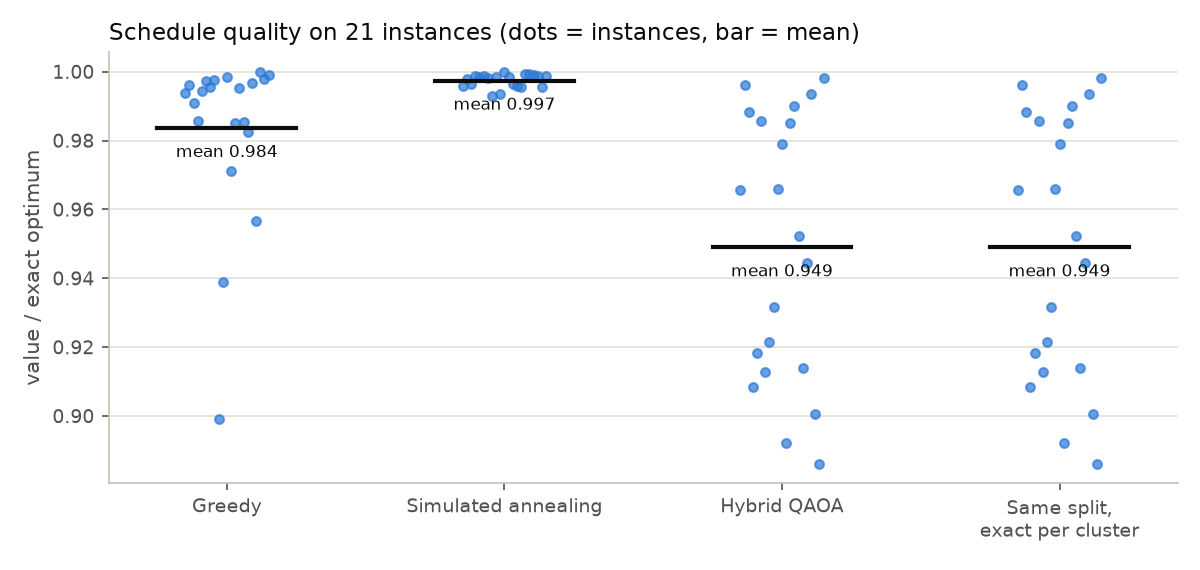
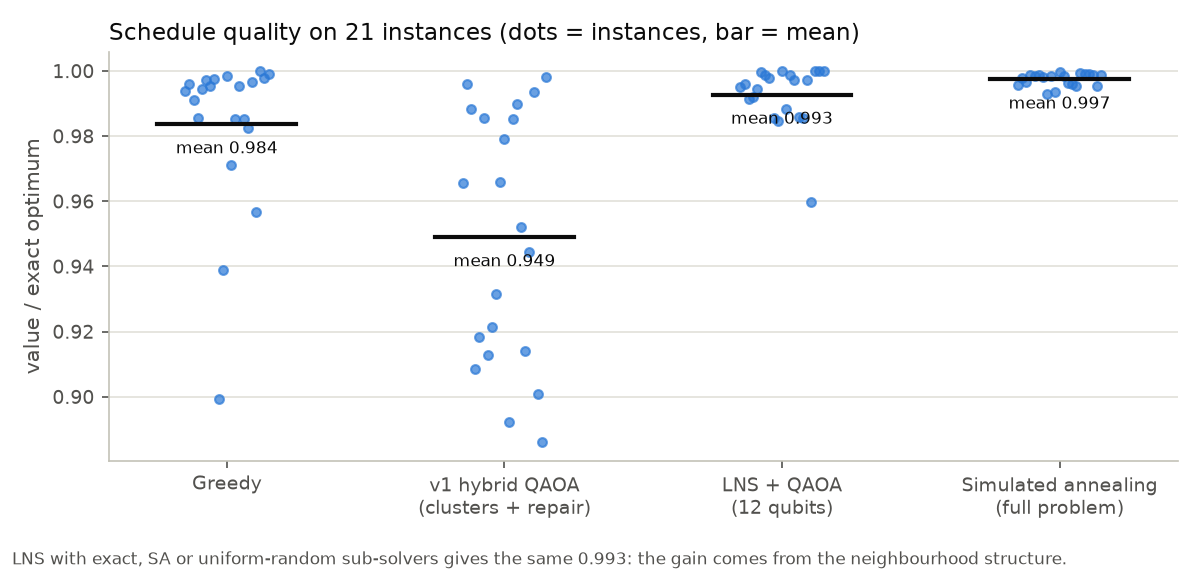
Final polish: table fits 90 columns, wrapped prose, LNS in ratio chart, README runtimes and method
- shorter honest row labels (e.g. '+ QAOA LNS sweep, 1 job (IonQ 1 nbhd/12q; local 6)'),
  test that the results table stays within 90 columns
- ratio chart shows greedy, v1 hybrid, LNS + QAOA and SA
- README: verified run times, live LNS pipeline in the method section
- packager writes dist/floodsight-q.zip again (v1 zip stays dist/floodsight-q-v1.zip)

Changed region(s): [[0.0, 0.1193, 0.9867, 0.7456], [0.0, 0.7754, 0.9867, 1.0]]

diff --git a/fsq/api.py b/fsq/api.py
@@ -15,6 +15,7 @@ Default run (fast, no optimisation in the browser), conditioned large-neighbourh
 from __future__ import annotations
 
 import json
+import textwrap
 import time
 
 import numpy as np
@@ -50,25 +51,33 @@ def _backend_name(backend) -> str:
     return "unknown" if backend is not None else "none (local)"
 
 
+def _say(text: str, indent: str = "  ", width: int = 88):
+    """Print prose wrapped to the console width (each source line kept as a paragraph)."""
+    for para in text.split("\n"):
+        lead = para[:len(para) - len(para.lstrip())]
+        print(textwrap.fill(para.strip(), width, initial_indent=lead or indent,
+                            subsequent_indent=(lead or indent) + "  "))
+
+
 def _line(char="-", n=72):
     print(char * n)
 
 
-def hybrid_label(bname: str, info: dict, n_units: int, unit: str = "neighbourhood") -> str:
+def hybrid_label(bname: str, info: dict, n_units: int, unit: str = "nbhd") -> str:
     """Label of the QAOA stage row; states where sampling actually happened. The QAOA row
     only ever carries the value after this one sweep, never the classical refinement."""
-    pl = lambda k: f"{k} {unit}" + ("" if k == 1 else "s")  # noqa: E731
-    head = "+ one QAOA-sampled LNS sweep"
+    head = "+ QAOA LNS sweep, 1 job"
+    bname = bname if len(bname) <= 18 else bname[:17] + "~"
     if info["mode"] == "none":
-        return f"{head} (sampled locally, no backend)"
+        return "+ QAOA LNS sweep (local, no backend)"
     if info["error"]:
         who = "IonQ" if info["mode"] == "packed" else bname
-        return f"{head} (sampled locally - {who} job failed)"
+        return f"+ QAOA LNS sweep (local; {who} job failed)"
     r, l = info["remote"], info["local"]
     if info["mode"] == "packed":
-        lab = f"IonQ: {pl(len(r))} / {info['remote_qubits']} qubits"
-        return f"{head} (one job; {lab}; local: {pl(len(l))})" if l else f"{head} (one job; {lab})"
-    return f"{head} (one job; {bname}: all {pl(n_units)})"
+        lab = f"IonQ {len(r)} {unit}/{info['remote_qubits']}q"
+        return f"{head} ({lab}; local {len(l)})" if l else f"{head} ({lab})"
+    return f"{head} ({bname}, {n_units} {unit}s)"
 
 
 def gap_insight(e1_path: str = E1_JSON, lns_path: str = E_LNS_JSON) -> str:
@@ -225,12 +234,12 @@ def run_default(backend=None, shots: int = 1024, seed: int = 7) -> str:
     print("[4/4] Results (value = priority x people x urgency x image quality; 1.000 = exact optimum)")
     hlabel = hybrid_label(bname, info, len(circuits))
     rows = [("exact", "Exact optimum (MILP, precomputed)", x_exact, None),
-            ("sa", f"Simulated annealing, full problem ({shots} restarts)", xs, t_s),
-            (None, "Hybrid LNS, stage by stage:", None, None),
-            ("greedy", "  Greedy incumbent (value density)", xg, t_g),
+            ("sa", f"Simulated annealing ({shots} restarts)", xs, t_s),
+            (None, "Hybrid LNS, stage by stage (nbhd = neighbourhood):", None, None),
+            ("greedy", "  Greedy incumbent", xg, t_g),
             ("hybrid_quantum_sweep", "  " + hlabel, x_q, t_q),
-            ("hybrid", f"  + {k_cl} classical LNS sweeps (exact sub-solver)", x_c, t_c)]
-    width = max(46, max(len(r[1]) for r in rows) + 2)
+            ("hybrid", f"  + {k_cl} classical LNS sweeps (exact)", x_c, t_c)]
+    width = max(40, max(len(r[1]) for r in rows if r[0]) + 1)
     print(f"  {'method':<{width}}{'ratio':>7}{'images':>8}{'feasible':>10}{'time s':>8}")
     out_methods = {}
     for key, name, xx, rt in rows:
@@ -243,20 +252,20 @@ def run_default(backend=None, shots: int = 1024, seed: int = 7) -> str:
         out_methods[key] = {"label": name.strip(), "ratio": approx_ratio(val, opt), "x": [int(v) for v in xx],
                             "runtime_s": rt}
     try:
-        print("  " + seed_insight())
+        _say(seed_insight())
     except Exception as e:
         print(f"  (seed summary unavailable: {type(e).__name__})")
     _line()
     try:
-        print("What the benchmarks say: " + gap_insight())
+        _say("What the benchmarks say: " + gap_insight(), indent="")
     except Exception as e:
         print(f"(benchmark insight unavailable: {type(e).__name__})")
     if info["panel"]:
-        print(f"Probabilities panel: shows {info['panel']}. All neighbourhoods are summarised above.")
+        _say(f"Probabilities panel: shows {info['panel']}. All neighbourhoods are summarised above.", indent="")
     else:
         print("Probabilities panel: no circuit ran on a backend in this run (all sampled locally).")
     _line()
-    print(VERDICT)
+    _say(VERDICT, indent="")
     print(f"Total runtime: {time.perf_counter() - t_all:.1f} s")
     _line("=")
     return json.dumps({"backend": bname, "shots": shots, "sampling": info, "hybrid_label": hlabel,

diff --git a/tests/test_api_smoke.py b/tests/test_api_smoke.py
@@ -43,7 +43,7 @@ def test_default_run_end_to_end_local_simulator():
     r = json.loads(run_default(be, shots=256))
     assert be.jobs == 1
     assert r["sampling"]["mode"] == "list" and not r["sampling"]["local"]
-    assert "counting_basic_simulator: all" in r["hybrid_label"] and r["precomputed_angles"]
+    assert "counting_basic_si" in r["hybrid_label"] and r["precomputed_angles"]
     assert r["methods"]["hybrid"]["ratio"] >= r["methods"]["hybrid_quantum_sweep"]["ratio"] >= r["methods"]["greedy"]["ratio"]
     # largest cluster submitted last (the Probabilities panel shows the last circuit)
     sizes = [c.num_qubits for c in be.sent[0]]
@@ -64,8 +64,8 @@ def test_ionq_default_budget_sends_largest_neighbourhood_only():
     assert s["mode"] == "packed" and s["error"] is None and s["remote_qubits"] <= 12
     assert be.sent[0].num_qubits == s["remote_qubits"] and be.sent[0].num_clbits == s["remote_qubits"]
     k, rest = len(s["remote"]), len(s["local"])
-    assert r["hybrid_label"].startswith(f"+ one QAOA-sampled LNS sweep (one job; IonQ: {k} neighbourhood")
-    assert f"local: {rest} neighbourhood" in r["hybrid_label"]
+    assert r["hybrid_label"].startswith(f"+ QAOA LNS sweep, 1 job (IonQ {k} nbhd/")
+    assert f"local {rest})" in r["hybrid_label"]
 
 
 @needs_default
@@ -124,7 +124,7 @@ def test_ionq_failure_is_labelled_local():
     be = Broken()
     r = json.loads(run_default(be, shots=64))
     assert be.jobs == 1
-    assert r["hybrid_label"] == "+ one QAOA-sampled LNS sweep (sampled locally - IonQ job failed)"
+    assert r["hybrid_label"] == "+ QAOA LNS sweep (local; IonQ job failed)"
     assert "ionq" not in r["hybrid_label"].lower().replace("ionq job failed", "")
 
 
@@ -190,3 +190,11 @@ def test_qaoa_row_never_carries_classical_value():
     assert "QAOA" in m["hybrid_quantum_sweep"]["label"]
     assert "QAOA" not in m["hybrid"]["label"] and "classical" in m["hybrid"]["label"]
     assert m["hybrid"]["ratio"] >= m["hybrid_quantum_sweep"]["ratio"] >= m["greedy"]["ratio"]
+
+
+def test_results_table_fits_90_columns(capsys):
+    from fsq.api import run_default
+    run_default(None)
+    out = capsys.readouterr().out
+    table = out[out.index("[4/4]"):].split("\n")[1:9]
+    assert max(len(line) for line in table if "-" * 20 not in line) <= 90

diff --git a/fsq/plots.py b/fsq/plots.py
@@ -126,24 +126,28 @@ def diversity_chart():
     return fig
 
 
-def ratio_chart():
+def ratio_chart(lns_path: str = "results/e_lns.json"):
     """Approximation ratio per method over the 21 benchmark instances."""
     import matplotlib.pyplot as plt
 
     e = [i for i in json.load(open(E1_JSON))["instances"] if i["instance"] != "default"]
-    methods = [("greedy", "Greedy"), ("sa", "Simulated annealing"), ("hybrid_warm_p1", "Hybrid QAOA"),
-               ("decomp_exact", "Same split,\nexact per cluster")]
+    lns = json.load(open(lns_path))["part_a"]["qaoa_q12"]["per_instance_final"]
+    cols = [("Greedy", [i["methods"]["greedy"]["ratio"] for i in e]),
+            ("v1 hybrid QAOA\n(clusters + repair)", [i["methods"]["hybrid_warm_p1"]["ratio"] for i in e]),
+            ("LNS + QAOA\n(12 qubits)", [lns[i["instance"]] for i in e]),
+            ("Simulated annealing\n(full problem)", [i["methods"]["sa"]["ratio"] for i in e])]
     fig, ax = plt.subplots(figsize=(8, 3.8))
-    for k, (m, label) in enumerate(methods):
-        v = [i["methods"][m]["ratio"] for i in e]
+    for k, (label, v) in enumerate(cols):
         ax.scatter(np.full(len(v), k) + np.linspace(-0.15, 0.15, len(v)), v, s=18, color=BLUE, alpha=0.7, zorder=3)
         ax.plot([k - 0.25, k + 0.25], [np.mean(v)] * 2, color=INK, linewidth=2, zorder=4)
         ax.annotate(f"mean {np.mean(v):.3f}", (k, np.mean(v)), xytext=(0, -14), textcoords="offset points",
                     ha="center", fontsize=8, color=INK)
-    ax.set_xticks(range(len(methods)), [l for _, l in methods])
+    ax.set_xticks(range(len(cols)), [l for l, _ in cols])
     ax.set_ylabel("value / exact optimum", color=MUTED)
     _style(ax, f"Schedule quality on {len(e)} instances (dots = instances, bar = mean)")
-    fig.tight_layout()
+    fig.text(0.01, 0.01, "LNS with exact, SA or uniform-random sub-solvers gives the same 0.993: "
+             "the gain comes from the neighbourhood structure.", fontsize=8, color=MUTED)
+    fig.tight_layout(rect=(0, 0.04, 1, 1))
     return fig
 
 

diff --git a/preprocessing/package_qollab.py b/preprocessing/package_qollab.py
@@ -1,4 +1,4 @@
-"""Build dist/floodsight-q-improve.zip for Qollab's "Upload your own files" (checks Qollab's limits).
+"""Build dist/floodsight-q.zip for Qollab's "Upload your own files" (checks Qollab's limits).
 
     .venv/bin/python preprocessing/package_qollab.py
 """
@@ -31,11 +31,11 @@ def main():
     assert len(fs) <= MAX_FILES, f"{len(fs)} files > {MAX_FILES}"
     assert not big, f"files over 2 MB: {big}"
     os.makedirs("dist", exist_ok=True)
-    with zipfile.ZipFile("dist/floodsight-q-improve.zip", "w", zipfile.ZIP_DEFLATED) as z:
+    with zipfile.ZipFile("dist/floodsight-q.zip", "w", zipfile.ZIP_DEFLATED) as z:
         for f in fs:
             z.write(f, f)
     total = sum(os.path.getsize(f) for f in fs)
-    print(f"dist/floodsight-q-improve.zip: {len(fs)} files, {total / 1024:.0f} KB uncompressed, "
+    print(f"dist/floodsight-q.zip: {len(fs)} files, {total / 1024:.0f} KB uncompressed, "
           f"largest {max(fs, key=os.path.getsize)} ({os.path.getsize(max(fs, key=os.path.getsize)) / 1024:.0f} KB)")
 
 

diff --git a/README.md b/README.md
@@ -9,8 +9,8 @@ Built for Qollab × IonQ, theme **Quantum Impact**. Qiskit · MIT licence.
 > ### How to run
 > 1. Open the project in **Chrome or Edge** (Brave, Opera and Firefox 153+ also work). **Safari cannot run Qollab projects.**
 > 2. Click **Run Project**. In *Select QPU*, choose one of:
->    - **Built-in simulator (24q):** about **23 s** on the first run (Qollab loads its packages) and about **9 s** after; our Python code itself takes 1–3 s.
->    - **IonQ Aria 1 (25q):** a remote noise-model simulator that may queue. IonQ accepts **one circuit per job**. By default the run sends the **largest cluster (12 qubits)** to IonQ as that one circuit and samples the other 7 clusters locally; the console lists which ran where. See *IonQ qubit budget* below. Verified on Qollab (Oct 10, 2026): the 12-qubit circuit ran on IonQ Aria 1 in one job, and the whole run took about 14 s, mostly the remote IonQ job.
+>    - **Built-in simulator (24q):** about **25 s** on the first run (Qollab loads its packages) and about **9 s** after; our Python code itself takes about 1 s.
+>    - **IonQ Aria 1 (25q):** a remote noise-model simulator; the run takes about **20–30 s plus any queue**. IonQ accepts **one circuit per job**. By default the run sends the **largest neighbourhood (12 qubits)** to IonQ as that one circuit and samples the other 6 locally; the console lists which ran where. See *IonQ qubit budget* below. Verified on Qollab (Oct 11, 2026): built-in simulator 1.1 s of Python, IonQ Aria 1 17.7 s, no errors.
 >
 >    *Run settings* offers `shots` (default 1024) and `charts` (default on).
 > 3. What the run does (the default scenario: top 10 districts over the first 24 h, 68 candidate images):
@@ -21,7 +21,7 @@ Built for Qollab × IonQ, theme **Quantum Impact**. Qiskit · MIT licence.
 >    - draws four figures.
 > 4. What to look for:
 >    - **where each neighbourhood was sampled** (backend or local);
->    - **the results table, stage by stage**: `Greedy incumbent 0.988`, `+ one QAOA-sampled LNS sweep (one job) 0.995`, `+ 5 classical LNS sweeps 1.000`. The 1.000 comes from the classical sweeps, not from QAOA;
+>    - **the results table, stage by stage**: `Greedy incumbent 0.988`, `+ QAOA LNS sweep, 1 job (IonQ 1 nbhd/12q; local 6) 0.995`, `+ 5 classical LNS sweeps (exact) 1.000`. The 1.000 comes from the classical sweeps, not from QAOA;
 >    - **the seed line**: 7 is the project's fixed seed. Across 20 seeds the one-job QAOA-sampled sweep reaches the optimum on 3 and 0.995 on the other 17; with the classical sweeps, 8 of 20 reach 1.000 (`results/e_live_seeds.json`);
 >    - **the benchmark lines and the honest verdict**.
 >
@@ -108,6 +108,15 @@ We made these deliberately strong, because the comparison is only credible if th
 
 ## 4. Hybrid method
 
+**Live pipeline (conditioned LNS, this version).**
+1. Incumbent = the greedy schedule.
+2. Build neighbourhoods around it (≤ 12 qubits each). Each neighbourhood is conditioned on the rest of the schedule: a candidate is free only if it conflicts with nothing selected outside the neighbourhood, so no outside conflict can be broken. Details and controls are in §5.
+3. One warm-start CVaR-QAOA circuit per neighbourhood, with angles precomputed offline, all sampled in **one job** (see step 4 below for IonQ packing).
+4. Walk through the neighbourhoods in order. Apply the best sample that is still compatible with the current schedule, if it raises the total value. The result is never worse than greedy and always feasible.
+5. Run 5 more LNS sweeps with an exact classical sub-solver, labelled classical in the output.
+
+**v1 pipeline (kept for comparison).** Steps 1 and 5 below (fixed partition; stitch and repair) are v1 only, and its 0.949 is the baseline LNS improves on. Steps 2–4 (warm start, CVaR, one-job sampling and IonQ packing) are shared by both versions: LNS packs neighbourhoods exactly as v1 packed clusters.
+
 1. **Decompose.** Split the conflict graph into connected components. Any component over 12 nodes is split by repeated Kernighan–Lin bisection, and the most-linked pieces are merged back up to 12 qubits.
 2. **Warm start** (Egger, Mareček & Woerner, *Quantum* 5, 479, 2021).
    - Solve the LP relaxation with clique constraints. Plain edge constraints give an uninformative all-½ solution.
@@ -130,7 +139,7 @@ We made these deliberately strong, because the comparison is only credible if th
    - **Repair:** repeatedly drop the lowest-value candidate in a violated conflict, then greedily fill by value density.
    - The console logs the **net change**: drops and adds versus the stitched schedule.
 
-The **default Run** uses a small instance: the top 10 districts over the first 24 h. It has 68 candidates and 8 clusters of 5–12 qubits, with precomputed angles, so the browser does no optimisation.
+The **default Run** uses a small instance: the top 10 districts over the first 24 h. It has 68 candidates and 7 LNS neighbourhoods of 7–12 qubits, with precomputed angles, so the browser does no optimisation.
 
 ## 5. Results
 
@@ -142,7 +151,8 @@ The benchmark has 21 instances: the real event plus 20 seeded perturbations. Eac
 | --- | --- | --- | --- |
 | Greedy | 0.994 | 0.984 ± 0.024 | 0.899 |
 | Simulated annealing (1,024 restarts) | 0.996 | **0.997 ± 0.002** | 0.993 |
-| Hybrid QAOA (warm start, p=1) | 0.966 | 0.949 ± 0.038 | 0.886 |
+| v1 hybrid QAOA (fixed clusters + repair) | 0.966 | 0.949 ± 0.038 | 0.886 |
+| **LNS + QAOA (12 qubits, this version)** | 0.995 | **0.993 ± 0.009** | 0.960 |
 | *Control: same decomposition, exact per cluster* | 0.966 | 0.949 ± 0.038 | 0.886 |
 
 ![Schedule quality on 21 instances](https://raw.githubusercontent.com/DurgaPritam/qollab-hackathon/main/docs/figures/ratios.png)
@@ -214,7 +224,7 @@ The binary column is a **count only**:
 - Cliques of the conflict graph are "at most one" groups. A greedy clique cover gives 25 groups for the full event, and a group of k candidates needs ⌈log₂(k+1)⌉ qubits.
 - That encoding adds multi-qubit terms whose gate cost is not included here.
 
-![Resource estimate](https://raw.githubusercontent.com/DurgaPritam/qollab-hackathon/improve/docs/figures/resources.png)
+![Resource estimate](https://raw.githubusercontent.com/DurgaPritam/qollab-hackathon/main/docs/figures/resources.png)
 
 **Reading it.** The full event as a single circuit needs 268 qubits and about 6,800 two-qubit gates on all-to-all hardware. Under the simple model, a useful single-shot success (0.5) needs two-qubit error near **1e-4** on all-to-all and near **3e-5** on a grid, about 3× lower because of SWAP overhead. Current commercial two-qubit errors are around 1e-3 or higher, so whole-problem QAOA is out of reach. The LNS pipeline sidesteps this by using ≤12-qubit circuits.
 
